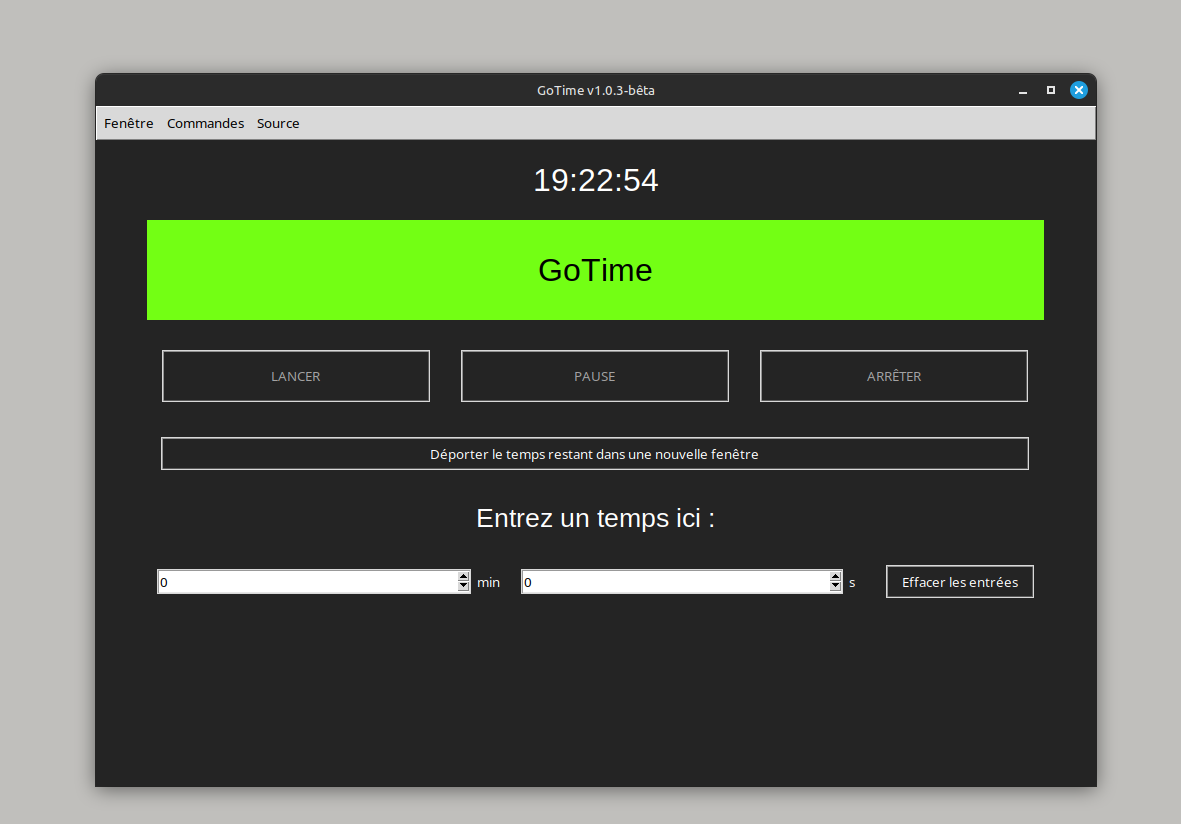
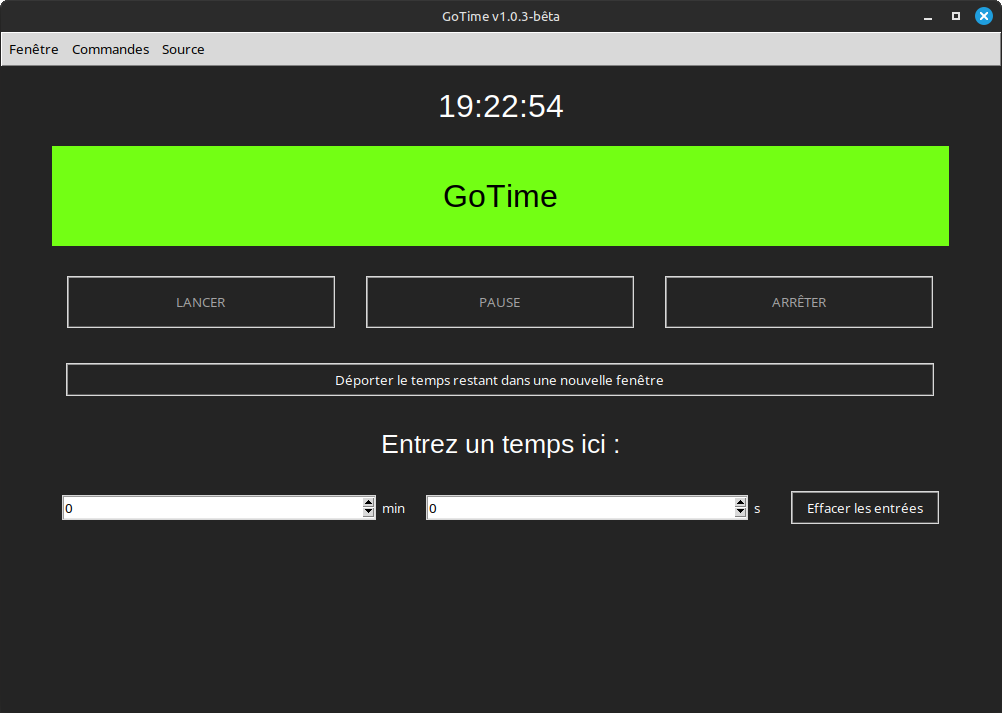
Ajout de captures d'écran de lappli avec ses deux thèmes au fichier README.md

diff --git a/src/Application.py b/src/Application.py
@@ -43,9 +43,9 @@ class Application(tk.Tk):
         commandes_menu = tk.Menu(barre_de_menu, tearoff=0)
         commandes_menu.add_command(label="Effacer les entrées", command=self.clear_entrees)
         commandes_menu.add_command(label="Déporter minuteur", command=self.deporter_frame_temps_restant_dans_une_nouvelle_fenetre)
-        # à essayer : win.eval('tk::PlaceWindow . center')
-        # vu à ce lien : https://www.tutorialspoint.com/how-to-center-a-window-on-the-screen-in-tkinter
-        if systeme_exploitation != "Windows": commandes_menu.add_command(label="Plein écran", command=lambda: self.geometry("{}x{}".format(self.winfo_screenwidth(), self.winfo_screenheight())))
+        if systeme_exploitation != "Windows":
+            commandes_menu.add_command(label="Plein écran", command=lambda: self.geometry("{}x{}".format(self.winfo_screenwidth(), self.winfo_screenheight())))
+            self.eval('tk::PlaceWindow . center')
         barre_de_menu.add_cascade(label="Commandes", menu=commandes_menu)
         # ------------------------ Création d'un troisième menu 'Source'
         source_menu = tk.Menu(barre_de_menu, tearoff=0)
@@ -317,41 +317,23 @@ class Application(tk.Tk):
         if messagebox.askyesno(title="Redémarrer ?", message=f"Voulez vous vraiment redémarrer l'application {nom_application} ?"):
             try:
                 import subprocess
-                # Annule tous les événements "after" en attente
-                for after_id in self.tk.eval('after info').split():
-                    self.after_cancel(after_id)
-
-                # Obtient le chemin de l'exécutable
-                if getattr(sys, 'frozen', False):
-                    # Le programme est compilé
-                    if hasattr(sys, '_MEIPASS'):
-                        # PyInstaller
-                        application_path = sys.executable
-                    else:
-                        # Nuitka
-                        application_path = sys.argv[0]
-                else:
-                    # Le programme est exécuté avec Python
-                    application_path = sys.executable
-
-                # Prépare la commande pour redémarrer
-                if sys.platform.startswith('win'):
-                    # Windows
-                    args = [application_path] + sys.argv[1:]
+                # annule tous les événements "after" en attente
+                for after_id in self.tk.eval('after info').split(): self.after_cancel(after_id)
+                if getattr(sys, 'frozen', False): # programme compilé
+                    if hasattr(sys, '_MEIPASS'): chemin_prog_app = sys.executable # avec PyInstaller
+                    else: chemin_prog_app = sys.argv[0] # avec Nuitka
+                else: chemin_prog_app = sys.executable # programme python
+                # crée la commande pour redémarrer
+                if systeme_exploitation == "Windows":
+                    args = [chemin_prog_app] + sys.argv[1:]
                     creationflags = subprocess.CREATE_NEW_PROCESS_GROUP | subprocess.DETACHED_PROCESS
                     subprocess.Popen(args, creationflags=creationflags, close_fds=True)
-                else:
-                    # Linux/Unix
-                    args = [application_path] + sys.argv
+                else: # Linux/Unix
+                    args = [chemin_prog_app] + sys.argv
                     subprocess.Popen(args, start_new_session=True)
-
-                # Détruit la fenêtre principale et quitte le programme actuel
-                self.destroy()
-                os._exit(0)
-            except Exception as e:
-                messagebox.showerror(title="Erreur", message=f"Erreur lors du redémarrage du programme : {e}")
-        else:
-            return
+                self.destroy(); del subprocess, chemin_prog_app; os._exit(0)
+            except Exception as e: messagebox.showerror(title="Erreur", message=f"Erreur lors du redémarrage du programme : {e}")
+        else: return
 
     def deselectionner_les_entry(self): self.focus_set()
     def clear_entrees(self):

diff --git a/src/variables.py b/src/variables.py
@@ -3,10 +3,9 @@ import sys
 from tkinter import messagebox
 from json import load, dump
 from platform import system
-import getpass
 import socket
 from datetime import datetime
-# https://stackoverflow.com/questions/59427353/how-to-get-the-current-path-of-compiled-binary-from-python-using-nuitka
+
 repertoire_courant = os.path.dirname(os.path.abspath(os.path.realpath(sys.argv[0])))
 chemin_fichier_parametres = os.path.join(os.path.dirname(repertoire_courant), "dep", "settings.json")
 chemin_fichier_logs = os.path.join(os.path.dirname(repertoire_courant), 'log', "error_log.csv")
@@ -14,6 +13,13 @@ chemin_image_application = os.path.join(os.path.dirname(repertoire_courant), 'de
 chemin_image_checkmark = os.path.join(os.path.dirname(repertoire_courant), 'dep', 'checkmark.png')
 chemin_fichier_wav_fin_temps = os.path.join(os.path.dirname(repertoire_courant), 'sons', 'digital-clock-alarm.wav')
 chemin_fichier_licence = os.path.join(os.path.dirname(repertoire_courant), "LICENCE.txt")
+""" # version des chemins de fichier lors de la compilation
+chemin_fichier_parametres = os.path.join(repertoire_courant, "dep", "settings.json")
+chemin_fichier_logs = os.path.join(repertoire_courant, 'log', "error_log.csv")
+chemin_image_application = os.path.join(repertoire_courant, 'dep', 'icon.png')
+chemin_image_checkmark = os.path.join(repertoire_courant, 'dep', 'checkmark.png')
+chemin_fichier_wav_fin_temps = os.path.join(repertoire_courant, 'sons', 'digital-clock-alarm.wav')
+chemin_fichier_licence = os.path.join(repertoire_courant, "LICENCE.txt") """
 
 lien_du_github = "https://github.com/pandaroux007/GoTime"
 nom_application = "GoTime"
@@ -37,18 +43,17 @@ def save_config(config):
         return None; exit()
 
 def log_error(error_message):
+    import getpass
     timestamp = datetime.now().strftime("%Y-%m-%d %H:%M:%S")
     username = getpass.getuser()
     hostname = socket.gethostname()
-
     error_data = f"{timestamp}   |   {username} sur {hostname}   |   {error_message}"
-
     with open(chemin_fichier_logs, mode='a', newline='') as file:
-        if file.tell() == 0:  # Vérifie si le fichier est vide
+        if file.tell() == 0:  # verif si le fichier est vide
             header = "Date + Heure   |   User et hostname   |   Erreur"
             file.write(f"{header}\n")
-        
         file.write(f"{error_data}\n")
+    del getpass
 
 sonnerie_actuelle = None
 def jouer_sonnerie(etat_jouer_son):
@@ -58,10 +63,8 @@ def jouer_sonnerie(etat_jouer_son):
         global sonnerie_actuelle
         if sonnerie_actuelle is None:
             sonnerie_actuelle = mixer.Sound(chemin_fichier_wav_fin_temps)
-        if etat_jouer_son:
-            sonnerie_actuelle.play()
-        else:
-            sonnerie_actuelle.stop()
+        if etat_jouer_son: sonnerie_actuelle.play()
+        else: sonnerie_actuelle.stop()
     except Exception as e: log_error(e); pass
 
 parametres_fichier_json = load_config()

diff --git a/README.md b/README.md
@@ -119,13 +119,13 @@ une nouvelle fenêtre avec affiché seulement le temps restant, sur un fond de c
 visible que l'affichage de l'application, mais aussi le fait qu'elle reste toujours au premier plan (même si vous cliquez à côté, elle
 restera apparente).
 
-Voici l'application à la version v1.0.3-bêta en mode clair (light) :
-
-![gotime version 1.0.3-bêta clair](screenshots/gotime-light-screenshot.png)
-___
-Et la voici en mode sombre (dark) :
-
-![gotime version 1.0.3-bêta sombre](screenshots/gotime-dark-screenshot.png)
+<p float="left">
+  <img src="screenshots/gotime-light-screenshot.png" width="49%" alt="GoTime version 1.0.3-bêta en mode clair" title="GoTime version 1.0.3-bêta en mode clair"/>
+  <img src="screenshots/gotime-dark-screenshot.png" width="49%" alt="GoTime version 1.0.3-bêta en mode sombre" title="GoTime version 1.0.3-bêta en mode sombre"/>
+</p>
+<p align="center">
+  <em>À gauche : GoTime v1.0.3-bêta en mode clair | À droite : GoTime v1.0.3-bêta en mode sombre</em>
+</p>
 
 ## Améliorations et Ajouts
 Maintenant qu'il n'y a plus de bugs **dans le code python** d'après les tests fait récemment, voici une petite liste non exhaustive des futurs améliorations.
